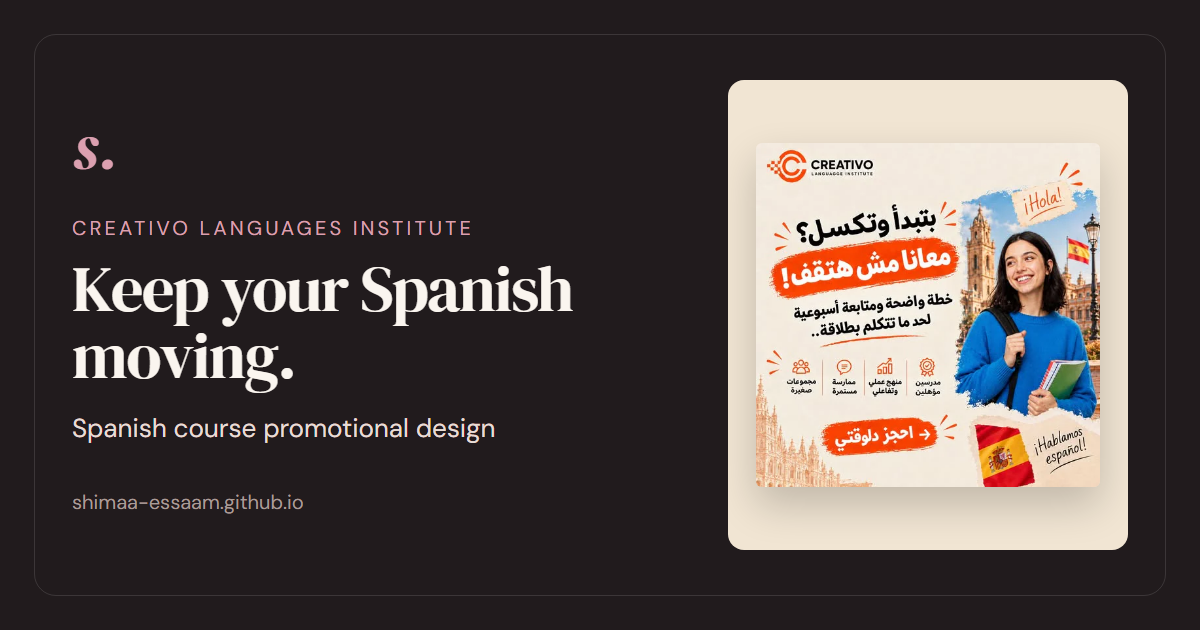
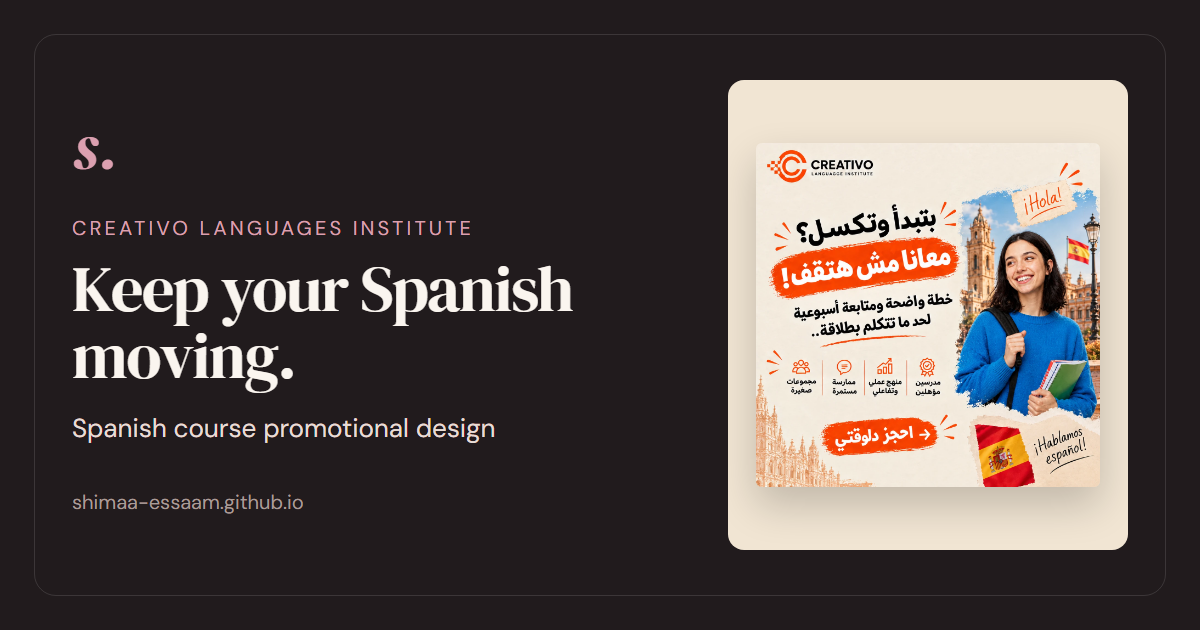
Add German and Tanta course designs; upgrade Spanish design to original
- New design projects: german-course-brighter-future (image-13, linked to its
  Facebook post) and spanish-course-tanta (image-14, no source link).
- image-12 now uses the 1254x1254 original instead of the 526x526 preview.
- Social cards for the three projects; render script accepts slugs.

diff --git a/src/lib/content.ts b/src/lib/content.ts
@@ -107,6 +107,20 @@ export const projects: Project[] = [
   audience:pair('Arabic-speaking learners interested in a Spanish language course.', 'الناطقون بالعربية المهتمون بكورس لتعلّم اللغة الإسبانية.'),
   approach:pair('Pair a bold Arabic headline with Spanish phrases, a learner portrait, and Spanish landmarks. Orange highlights organize the course features and booking message within Creativo’s visual identity.', 'دمج عنوان عربي بارز مع عبارات إسبانية وصورة متعلّمة ومعالم إسبانية. اللمسات البرتقالية بتبرز مميزات الكورس ودعوة الحجز ضمن هوية كرياتيفو.'),
   role:pair('Social media design', 'تصميم سوشيال ميديا'),cover:'/images/image-12.webp',images:['image-12'] },
+ { slug:'german-course-brighter-future',brand:'Creativo Languages Institute',category:'design',color:'peach',
+  title:pair('German is not that complicated.', 'الألماني مش معقد.'),
+  subtitle:pair('German course promotional design', 'تصميم ترويجي لكورس اللغة الألمانية'),
+  summary:pair('A promotional social media design for Creativo’s German course. The Arabic headline contrasts a friend who started German six months ago with a reader who still says “German is complicated”, followed by the course features and a contact number.', 'تصميم ترويجي لكورس الألماني في كرياتيفو. العنوان العربي بيقارن بين صاحب بدأ ألماني من ٦ شهور وبين اللي لسه بيقول «الألماني معقد»، ومعاه مميزات الكورس ورقم للتواصل.'),
+  audience:pair('Arabic-speaking learners interested in German who still see it as a difficult language.', 'الناطقون بالعربية المهتمون بالألماني واللي لسه شايفينه لغة صعبة.'),
+  approach:pair('Set a familiar study-desk scene with German books, notes, and flag details beside a bold Arabic headline. Orange highlights pick out the key phrase, the course features, and the contact number within Creativo’s visual identity.', 'مشهد مكتب مذاكرة مألوف فيه كتب وملاحظات ألمانية وعلم ألمانيا جنب عنوان عربي بارز. اللمسات البرتقالية بتبرز الجملة الأساسية ومميزات الكورس ورقم التواصل ضمن هوية كرياتيفو.'),
+  role:pair('Social media design', 'تصميم سوشيال ميديا'),cover:'/images/image-13.webp',images:['image-13'] },
+ { slug:'spanish-course-tanta',brand:'Creativo Languages Institute',category:'design',color:'cream',
+  title:pair('Spanish as a real upgrade.', 'Upgrade حقيقي مع الإسباني.'),
+  subtitle:pair('Spanish course promotional design for Tanta', 'تصميم ترويجي لكورس الإسباني في طنطا'),
+  summary:pair('A promotional social media design for Creativo’s Spanish course, addressed to learners in Tanta. The Arabic headline asks why stay on the same salary and presents the course as a real upgrade, followed by the course features and a call to action.', 'تصميم ترويجي لكورس الإسباني في كرياتيفو موجّه لجمهور طنطا. العنوان العربي بيسأل ليه تفضل بنفس المرتب، وبيقدّم الكورس كـ Upgrade حقيقي، ومعاه مميزات الكورس ودعوة للتسجيل.'),
+  audience:pair('Arabic-speaking learners in Tanta who want Spanish to move their career forward.', 'الناطقون بالعربية في طنطا اللي عايزين الإسباني يحرّك مستقبلهم المهني لقدّام.'),
+  approach:pair('Pair a direct Arabic question with a relaxed learner scene, Spanish landmarks and phrases, and a “Tanta” note that ties the message to the city. Orange highlights organize the headline, course features, and call to action within Creativo’s visual identity.', 'دمج سؤال عربي مباشر مع مشهد متعلّم مسترخي ومعالم وعبارات إسبانية، وكلمة «Tanta» اللي بتربط الرسالة بالمدينة. اللمسات البرتقالية بتنظّم العنوان ومميزات الكورس ودعوة التسجيل ضمن هوية كرياتيفو.'),
+  role:pair('Social media design', 'تصميم سوشيال ميديا'),cover:'/images/image-14.webp',images:['image-14'] },
 ];
 export const services = [
  {number:'01',title:pair('Words with a purpose.', 'كلمات لها هدف.'),name:pair('Content & scriptwriting','كتابة المحتوى والسكريبتات'),text:pair('Social copy, short-form scripts, and ideas shaped around your audience and your message.','نصوص للسوشيال ميديا وسكريبتات قصيرة وأفكار مبنية على جمهورك ورسالتك.')},

diff --git a/src/lib/sources.ts b/src/lib/sources.ts
@@ -19,6 +19,7 @@ export const publishedSources=[
 const matchedSources:Record<string,string>={
  'video-14':'https://www.facebook.com/reel/1419327659743960/?s=single_unit',
  'image-12':'https://www.facebook.com/photo?fbid=1593915736097275',
+ 'image-13':'https://www.facebook.com/photo?fbid=1607239131431602',
  'video-13':'https://www.facebook.com/share/r/14nEPCCFBfq/',
  'video-09':'https://www.facebook.com/reel/1001260666228831',
  'video-07':'https://www.facebook.com/reel/27388805627428000',

diff --git a/src/lib/media.ts b/src/lib/media.ts
@@ -11,7 +11,9 @@ export const designSizes: Record<string, [number, number]> = {
   'image-09': [1254, 1254],
   'image-10': [1254, 1254],
   'image-11': [1254, 1254],
-  'image-12': [526, 526],
+  'image-12': [1254, 1254],
+  'image-13': [1254, 1254],
+  'image-14': [1254, 1254],
 };
 
 /** Card thumbnails in public/images/thumbs are at most 720 px wide (see scripts/optimize-images.py). */

diff --git a/scripts/render-social-images.py b/scripts/render-social-images.py
@@ -4,10 +4,13 @@ A browser is used (not PIL) so Arabic text is shaped correctly. Requires:
     pip install playwright && python -m playwright install chromium
 Run from the repository root after changing a project title, subtitle or cover:
     python scripts/render-social-images.py
+Pass project slugs to render only those projects' cards:
+    python scripts/render-social-images.py spanish-course-tanta
 """
 import base64
 import html
 import re
+import sys
 from pathlib import Path
 
 from playwright.sync_api import sync_playwright
@@ -103,6 +106,7 @@ span{font-family:'DM Serif Display';font-style:italic;font-size:118px;line-heigh
 
 
 def main():
+    only = set(sys.argv[1:])
     OG.mkdir(parents=True, exist_ok=True)
     with sync_playwright() as playwright:
         browser = playwright.chromium.launch()
@@ -115,13 +119,15 @@ def main():
             print(target.relative_to(ROOT))
 
         for project in read_projects():
+            if only and project["slug"] not in only:
+                continue
             for lang in ("en", "ar"):
                 suffix = "-ar" if lang == "ar" else ""
                 shoot(project_card(project, lang), OG / f"{project['slug']}{suffix}.png")
-        shoot(ARABIC_SITE_CARD, PUBLIC / "images" / "social-preview-ar.png")
-
-        tab.set_viewport_size({"width": 180, "height": 180})
-        shoot(APPLE_ICON, ROOT / "src" / "app" / "apple-icon.png")
+        if not only:
+            shoot(ARABIC_SITE_CARD, PUBLIC / "images" / "social-preview-ar.png")
+            tab.set_viewport_size({"width": 180, "height": 180})
+            shoot(APPLE_ICON, ROOT / "src" / "app" / "apple-icon.png")
         browser.close()
 
 
